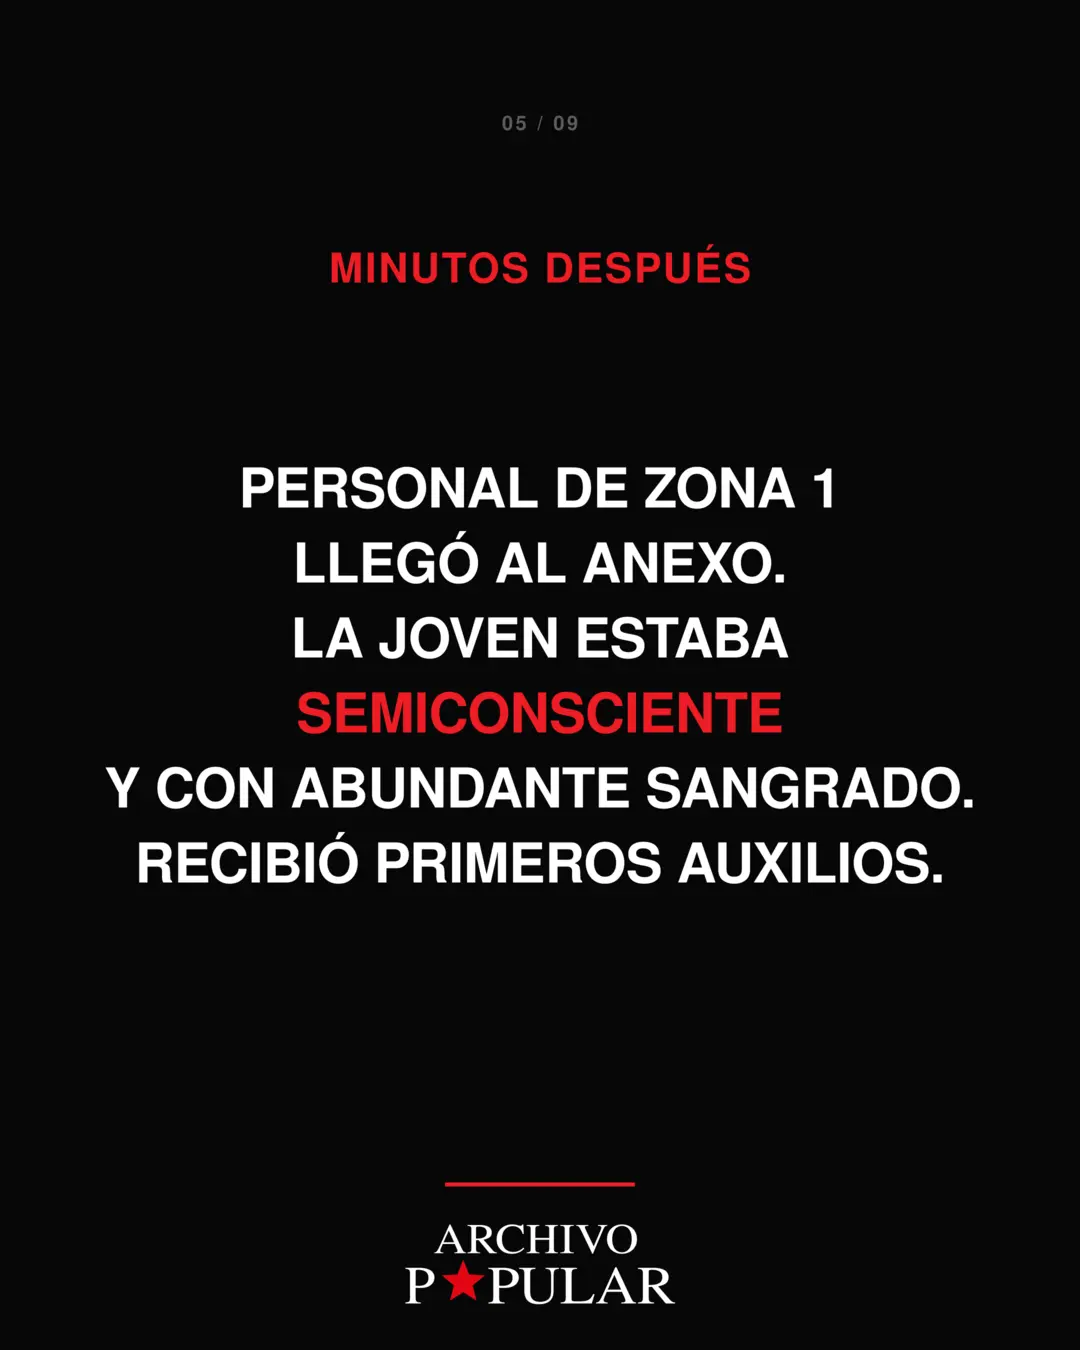
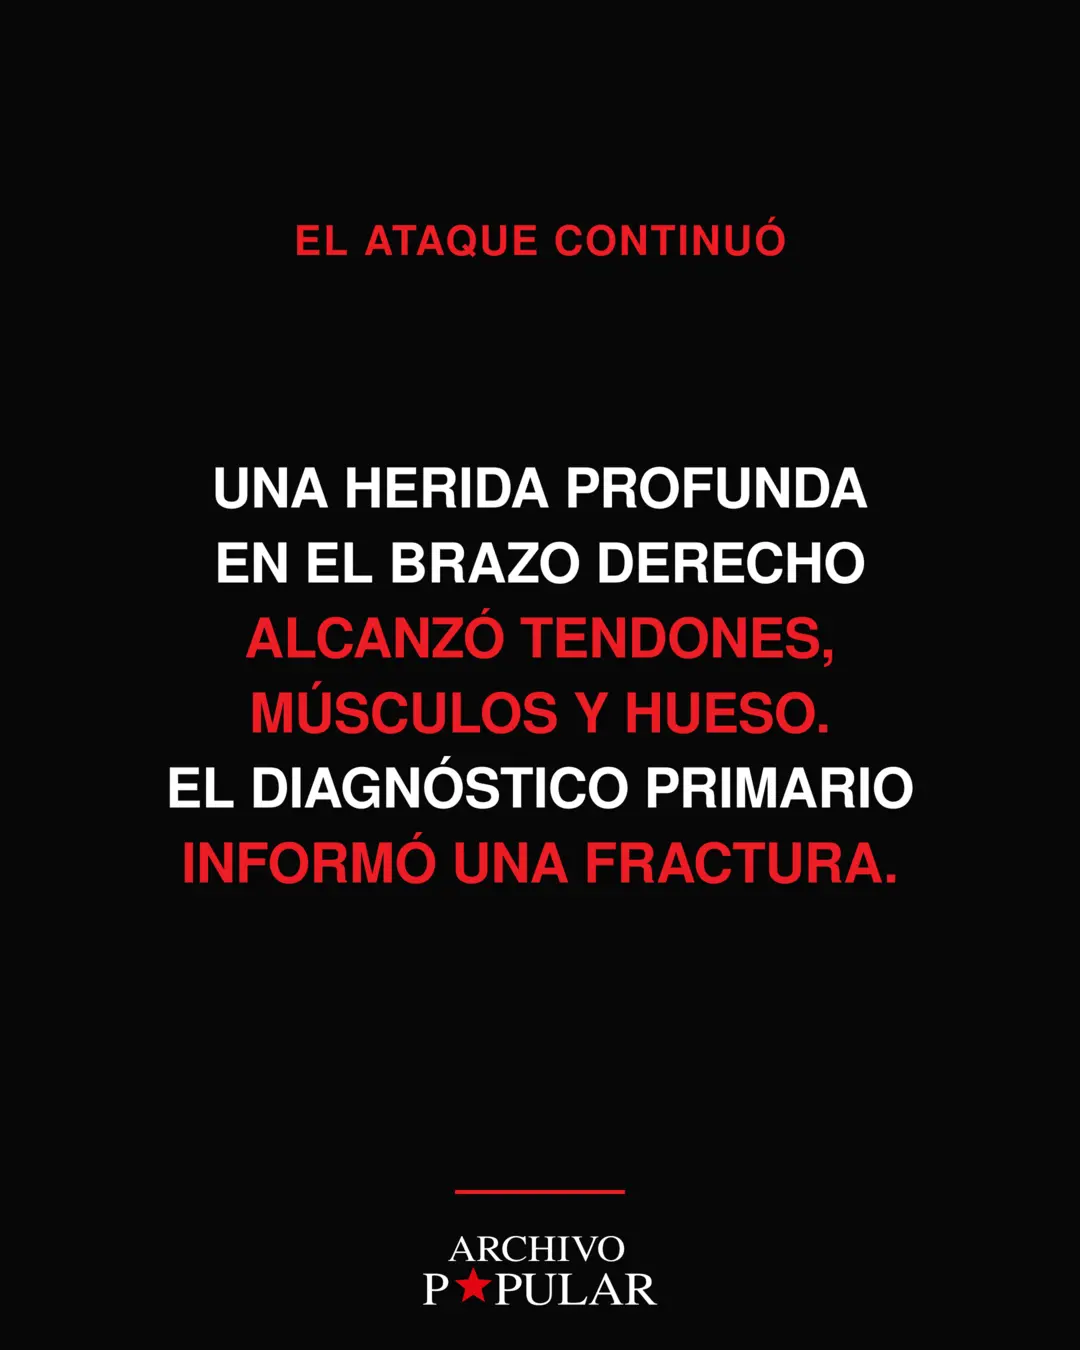
Refuerza cronología de la tentativa de femicidio en Medicina

diff --git a/noticias/minuto-a-minuto-ataque-facultad-medicina-2026.html b/noticias/minuto-a-minuto-ataque-facultad-medicina-2026.html
@@ -4,22 +4,22 @@
   <meta charset="utf-8">
   <meta name="viewport" content="width=device-width, initial-scale=1">
   <meta name="theme-color" content="#090909">
-  <meta name="description" content="La agresión ocurrió sobre las 15:30, al terminar una clase en el salón 306 del anexo. La Policía detuvo a otro estudiante de 19 años y trabaja con la hipótesis de tentativa de femicidio.">
+  <meta name="description" content="Una estudiante sobrevivió a un ataque con cuchillo dentro de la Facultad de Medicina. Reconstruimos los minutos, las lesiones verificadas y la respuesta estudiantil.">
   <meta property="og:type" content="article">
-  <meta property="og:title" content="Los minutos del ataque a una estudiante en la Facultad de Medicina">
-  <meta property="og:description" content="La única hora difundida oficialmente es 15:30. Reconstruimos el resto de la secuencia sin inventar horarios.">
+  <meta property="og:title" content="La quiso matar dentro de Medicina: cronología de una tentativa de femicidio">
+  <meta property="og:description" content="Las lesiones verificadas, el abundante sangrado, la detención y el rechazo estudiantil a volver como si nada hubiera ocurrido.">
   <meta property="og:image" content="https://archivopopular.github.io/assets/features/medicina-minuto-a-minuto-2026-slide-01.webp">
   <meta property="article:published_time" content="2026-09-02T10:15:00-03:00">
   <link rel="canonical" href="https://archivopopular.github.io/noticias/minuto-a-minuto-ataque-facultad-medicina-2026.html">
   <link rel="stylesheet" href="../styles.css?v=20260828-1">
-  <title>Los minutos del ataque en Facultad de Medicina | Archivo Popular</title>
+  <title>La quiso matar dentro de Medicina | Archivo Popular</title>
   <script type="application/ld+json">
   {
     "@context": "https://schema.org",
     "@type": "NewsArticle",
-    "headline": "Los minutos del ataque a una estudiante en la Facultad de Medicina",
+    "headline": "La quiso matar dentro de Medicina: cronología de una tentativa de femicidio",
     "datePublished": "2026-09-02T10:15:00-03:00",
-    "dateModified": "2026-09-02T10:15:00-03:00",
+    "dateModified": "2026-09-02T10:53:40-03:00",
     "inLanguage": "es-UY",
     "image": [
       "https://archivopopular.github.io/assets/features/medicina-minuto-a-minuto-2026-slide-01.webp",
@@ -30,7 +30,10 @@
       "https://archivopopular.github.io/assets/features/medicina-minuto-a-minuto-2026-slide-06.webp",
       "https://archivopopular.github.io/assets/features/medicina-minuto-a-minuto-2026-slide-07.webp",
       "https://archivopopular.github.io/assets/features/medicina-minuto-a-minuto-2026-slide-08.webp",
-      "https://archivopopular.github.io/assets/features/medicina-minuto-a-minuto-2026-slide-09.webp"
+      "https://archivopopular.github.io/assets/features/medicina-minuto-a-minuto-2026-slide-09.webp",
+      "https://archivopopular.github.io/assets/features/medicina-minuto-a-minuto-2026-slide-10.webp",
+      "https://archivopopular.github.io/assets/features/medicina-minuto-a-minuto-2026-slide-11.webp",
+      "https://archivopopular.github.io/assets/features/medicina-minuto-a-minuto-2026-slide-12.webp"
     ],
     "author": {"@type": "Organization", "name": "Archivo Popular"},
     "publisher": {"@type": "Organization", "name": "Archivo Popular", "url": "https://archivopopular.github.io/"},
@@ -56,38 +59,49 @@
       <header class="article-header">
         <p class="eyebrow">Sociedad · Violencia de género</p>
         <p class="story-meta"><span>2 DE SETIEMBRE DE 2026</span><span>Edificio Alpargatas · Montevideo</span><span>Archivo Popular</span></p>
-        <h1>Los minutos del ataque a una estudiante en la Facultad de Medicina</h1>
-        <p class="article-deck">Una estudiante de 19 años fue apuñalada por un compañero de generación al terminar una clase. La Policía detuvo al agresor en el lugar y trabaja con la hipótesis de una tentativa de femicidio.</p>
+        <h1>La quiso matar dentro de Medicina: cronología de una tentativa de femicidio</h1>
+        <p class="article-deck">Una estudiante de 19 años sobrevivió a un ataque con cuchillo dentro de un aula. Las lesiones verificadas muestran la brutalidad del hecho que Policía y Fiscalía investigan como tentativa de femicidio.</p>
       </header>
 
       <figure class="article-figure article-figure--poster">
-        <img src="../assets/features/medicina-minuto-a-minuto-2026-slide-01.webp" alt="Portada del carrusel sobre el ataque a una estudiante en la Facultad de Medicina" width="1080" height="1350">
+        <img src="../assets/features/medicina-minuto-a-minuto-2026-slide-01.webp" alt="Portada del carrusel sobre la tentativa de femicidio en la Facultad de Medicina" width="1080" height="1350">
         <figcaption>Diseño y cronología: Archivo Popular. Carrusel tipográfico sin fotografías.</figcaption>
       </figure>
 
       <div class="article-body">
-        <p><strong>La única hora precisa difundida públicamente es 15:30.</strong> Para no presentar estimaciones como datos, esta reconstrucción ordena los hechos confirmados con referencias relativas —“segundos después”, “minutos después” y “durante la tarde”— cuando no existe un horario oficial.</p>
+        <p><strong>La única hora precisa difundida públicamente es 15:30.</strong> Para no inventar minutos, esta reconstrucción utiliza referencias relativas —“segundos después”, “minutos después” y “durante la tarde”— cuando no existe un horario oficial.</p>
 
-        <p>El ataque ocurrió el martes 1.º de setiembre en el salón 306 del Edificio Alpargatas, anexo de la Facultad de Medicina de la Universidad de la República. Según la información policial difundida por la prensa, una clase acababa de terminar cuando un estudiante de 19 años le pidió hablar a una compañera de la misma edad y la atacó con un arma blanca. El motivo continúa bajo investigación.</p>
+        <p>El ataque ocurrió el martes 1.º de setiembre en el salón 306 del Edificio Alpargatas, anexo de la Facultad de Medicina de la Universidad de la República. Una clase acababa de terminar cuando un estudiante de 19 años le pidió hablar a una compañera de la misma edad. Según la reconstrucción publicada por Montevideo Portal, llevaba guantes negros y un cuchillo de cocina oculto en el abrigo. Durante la conversación sacó el arma y comenzó a atacarla.</p>
 
-        <p>Varios llamados alertaron al 911 y estudiantes que presenciaron la agresión intervinieron para separarlos. Personal de la Zona Operacional I llegó al edificio, encontró a la joven herida y le brindó los primeros auxilios antes de su traslado en ambulancia.</p>
+        <p><strong>Las heridas muestran la brutalidad de la agresión.</strong> El diagnóstico primario citado por Subrayado informó diversas heridas cortantes, fractura de un brazo y lesiones profundas en un ojo. Telemundo precisó que sufrió heridas en el abdomen y un corte facial que comprometió ese ojo.</p>
 
-        <p>El presunto agresor fue detenido en el lugar y la Policía incautó el arma. Policía Científica trabajó en el salón mientras el anexo era evacuado.</p>
+        <p>El parte médico al que accedió Montevideo Portal detalló dos cortes profundos en el pómulo izquierdo, una herida profunda en el brazo derecho que alcanzó tendones, músculos y hueso, múltiples cortes en el cuello y uno a la altura cervical. Ninguna fuente consultada confirmó una rotura de córnea.</p>
 
-        <p>La Facultad suspendió las actividades del resto de la jornada tanto en el Edificio Alpargatas como en el Edificio Central. Más tarde, el decano Arturo Briva informó que la estudiante se encontraba estable y fuera de peligro, aunque continuaba recibiendo atención médica por las heridas.</p>
+        <p>La Jefatura de Policía de Montevideo informó que los efectivos encontraron a la joven con heridas de arma blanca y abundante sangrado. Estudiantes intervinieron y llamaron al 911. Personal de la Zona Operacional I le brindó los primeros auxilios antes de que una emergencia médica la trasladara a un centro asistencial.</p>
 
-        <p>La Policía informó que trabaja con la hipótesis de una tentativa de femicidio y que la investigación quedó a cargo de la Fiscalía de Violencia Doméstica. Esa es una línea de investigación, no una sentencia ni una calificación jurídica definitiva.</p>
+        <p>El agresor fue detenido en el lugar y el cuchillo quedó incautado. Policía Científica trabajó en el aula mientras el anexo era evacuado. La Facultad suspendió las actividades por el resto de la jornada.</p>
 
-        <p><strong>Criterio editorial.</strong> Archivo Popular preserva la identidad de la víctima y omite versiones no confirmadas sobre la salud del detenido. Informar con rigor también implica no convertir rumores ni datos médicos privados en espectáculo.</p>
+        <p>Más tarde, el decano Arturo Briva informó que la estudiante estaba fuera de peligro y continuaba recibiendo atención por las heridas y el shock emocional. <strong>Estar fuera de peligro no significa haber salido ilesa ni reduce la gravedad del ataque.</strong></p>
+
+        <p>La Policía y Fiscalía investigan el caso como tentativa de femicidio. No fue una simple “pelea entre estudiantes”: fue un ataque contra una joven que, de acuerdo con los elementos divulgados, había rechazado conductas persecutorias y obsesivas de su agresor.</p>
+
+        <p>Las autoridades universitarias anunciaron que las clases se retomarían el miércoles y el decano confirmó el regreso. <strong>Para Archivo Popular, pretender volver a la normalidad en menos de 24 horas fue una decisión vergonzosa.</strong> La respuesta llegó desde el estudiantado: 558 de 739 participantes de una asamblea votaron un paro de 24 horas y la Asociación de Estudiantes de Medicina convocó a movilizarse.</p>
+
+        <p>La AEM llamó a no regresar “como si no hubiese pasado nada” y sostuvo que la institución falló en proteger a una compañera. También reclamó una respuesta universitaria capaz de prevenir, acompañar y actuar antes de que el daño ocurra.</p>
+
+        <p><strong>Criterio editorial.</strong> Archivo Popular preserva la identidad de la víctima, no publica imágenes de su cuerpo y solo incorpora lesiones atribuidas al diagnóstico primario o al parte médico por fuentes identificables. La firmeza no necesita rumores.</p>
       </div>
 
       <aside class="article-aside" aria-labelledby="fuentes">
         <h2 id="fuentes">Fuentes consultadas</h2>
         <ul class="source-list">
-          <li><a href="https://www.elpais.com.uy/informacion/policiales/investigan-como-intento-de-femicidio-ataque-a-estudiante-de-medicina-senalan-conducta-obsesiva-de-agresor" rel="noopener" target="_blank">El País · Investigación, estado de la víctima y suspensión de actividades</a></li>
-          <li><a href="https://www.telenoche.com.uy/sociedad/una-joven-19-anos-fue-apunalada-el-anexo-la-facultad-medicina-el-autor-fue-detenido-n5404125" rel="noopener" target="_blank">Telenoche · Llamados al 911, respuesta policial y detención</a></li>
-          <li><a href="https://ladiaria.com.uy/justicia/articulo/2026/9/fiscalia-investiga-como-tentativa-de-femicidio-ataque-de-un-estudiante-a-una-companera-en-la-facultad-de-medicina/" rel="noopener" target="_blank">la diaria · Intervención de Fiscalía y línea de investigación</a></li>
-          <li><a href="https://www.montevideo.com.uy/Noticias/Apunalaron-a-una-joven-en-la-Facultad-de-Medicina-el-agresor-fue-detenido-uc973809" rel="noopener" target="_blank">Montevideo Portal · Primer reporte del ataque</a></li>
+          <li><a href="https://www.subrayado.com.uy/un-alumno-facultad-medicina-apunalo-una-companera-clase-la-victima-tiene-19-anos-n1016886" rel="noopener" target="_blank">Subrayado · Diagnóstico primario: heridas, fractura y lesión ocular</a></li>
+          <li><a href="https://www.teledoce.com/telemundo/nacionales/facultad-de-medicina-suspendio-clases-tras-punalada-a-estudiante-en-el-edificio-gremio-estudiantil-define-en-asamblea-los-pasos-a-seguir/" rel="noopener" target="_blank">Telemundo · Heridas abdominales, fractura y ojo comprometido</a></li>
+          <li><a href="https://www.montevideo.com.uy/Noticias/Quien-es-el-joven-que-le-destruyo-la-cara-a-una-alumna-en-la-Facultad-de-Medicina-uc973821" rel="noopener" target="_blank">Montevideo Portal · Detalle del parte médico y secuencia del ataque</a></li>
+          <li><a href="https://ladiaria.com.uy/justicia/articulo/2026/9/fiscalia-investiga-como-tentativa-de-femicidio-ataque-de-un-estudiante-a-una-companera-en-la-facultad-de-medicina/" rel="noopener" target="_blank">la diaria · Investigación como tentativa de femicidio</a></li>
+          <li><a href="https://www.subrayado.com.uy/decano-medicina-joven-apunalada-esta-una-mezcla-conmocion-el-shock-emocional-n1016907" rel="noopener" target="_blank">Subrayado · Estado de la estudiante y reanudación de clases</a></li>
+          <li><a href="https://www.teledoce.com/telemundo/nacionales/a-no-ser-indiferentes-estudiantes-de-medicina-paran-este-miercoles-tras-intento-de-femicidio-contra-una-alumna/" rel="noopener" target="_blank">Telemundo · Paro y movilización estudiantil</a></li>
+          <li><a href="https://www.elobservador.com.uy/nacional/estudiantes-medicina-paran-24-horas-el-intento-femicidio-la-facultad-habra-una-movilizacion-n6055977" rel="noopener" target="_blank">El Observador · Votación de la asamblea y respuesta de la Udelar</a></li>
         </ul>
       </aside>
 
@@ -103,38 +117,53 @@
         </figure>
 
         <figure>
-          <img src="../assets/features/medicina-minuto-a-minuto-2026-slide-03.webp" alt="A las 15:30 un estudiante atacó con un arma blanca a una compañera" width="1080" height="1350" loading="lazy">
-          <figcaption>15:30 · El ataque.</figcaption>
+          <img src="../assets/features/medicina-minuto-a-minuto-2026-slide-03.webp" alt="El agresor llevaba guantes y un cuchillo oculto en el abrigo" width="1080" height="1350" loading="lazy">
+          <figcaption>15:30 · Sacó el cuchillo.</figcaption>
         </figure>
 
         <figure>
-          <img src="../assets/features/medicina-minuto-a-minuto-2026-slide-04.webp" alt="Segundos después hubo llamados al 911 y estudiantes intervinieron" width="1080" height="1350" loading="lazy">
-          <figcaption>Segundos después · Los llamados y la intervención.</figcaption>
+          <img src="../assets/features/medicina-minuto-a-minuto-2026-slide-04.webp" alt="La estudiante sufrió dos cortes profundos en el pómulo y una lesión que comprometió un ojo" width="1080" height="1350" loading="lazy">
+          <figcaption>Segundos de violencia · Las heridas en el rostro y el ojo.</figcaption>
         </figure>
 
         <figure>
-          <img src="../assets/features/medicina-minuto-a-minuto-2026-slide-05.webp" alt="Minutos después llegó la Policía y brindó primeros auxilios" width="1080" height="1350" loading="lazy">
-          <figcaption>Minutos después · La respuesta policial.</figcaption>
+          <img src="../assets/features/medicina-minuto-a-minuto-2026-slide-05.webp" alt="Una herida profunda en el brazo alcanzó tendones, músculos y hueso" width="1080" height="1350" loading="lazy">
+          <figcaption>El ataque continuó · La herida y fractura del brazo.</figcaption>
         </figure>
 
         <figure>
-          <img src="../assets/features/medicina-minuto-a-minuto-2026-slide-06.webp" alt="La joven fue trasladada y el presunto agresor quedó detenido" width="1080" height="1350" loading="lazy">
-          <figcaption>Minutos después · El traslado y la detención.</figcaption>
+          <img src="../assets/features/medicina-minuto-a-minuto-2026-slide-06.webp" alt="La estudiante también sufrió heridas en el abdomen y múltiples cortes en el cuello" width="1080" height="1350" loading="lazy">
+          <figcaption>El ataque continuó · Heridas en abdomen, cuello y cervical.</figcaption>
         </figure>
 
         <figure>
-          <img src="../assets/features/medicina-minuto-a-minuto-2026-slide-07.webp" alt="Policía Científica trabajó en el lugar y la Facultad suspendió las clases" width="1080" height="1350" loading="lazy">
-          <figcaption>Durante la tarde · Pericias, evacuación y suspensión de clases.</figcaption>
+          <img src="../assets/features/medicina-minuto-a-minuto-2026-slide-07.webp" alt="La Policía encontró a la joven herida con abundante sangrado" width="1080" height="1350" loading="lazy">
+          <figcaption>Segundos después · Intervención estudiantil y llamados al 911.</figcaption>
         </figure>
 
         <figure>
-          <img src="../assets/features/medicina-minuto-a-minuto-2026-slide-08.webp" alt="El decano confirmó que la joven estaba estable y fuera de peligro" width="1080" height="1350" loading="lazy">
-          <figcaption>Al caer la tarde · La víctima estaba fuera de peligro.</figcaption>
+          <img src="../assets/features/medicina-minuto-a-minuto-2026-slide-08.webp" alt="La joven recibió primeros auxilios y el agresor fue detenido" width="1080" height="1350" loading="lazy">
+          <figcaption>Minutos después · Primeros auxilios, traslado y detención.</figcaption>
         </figure>
 
         <figure>
-          <img src="../assets/features/medicina-minuto-a-minuto-2026-slide-09.webp" alt="La Policía investiga el ataque como una posible tentativa de femicidio" width="1080" height="1350" loading="lazy">
-          <figcaption>Al cierre del día · Investigación por tentativa de femicidio.</figcaption>
+          <img src="../assets/features/medicina-minuto-a-minuto-2026-slide-09.webp" alt="Policía Científica trabajó en el aula y la Facultad suspendió las clases" width="1080" height="1350" loading="lazy">
+          <figcaption>Durante la tarde · Pericias, evacuación y suspensión.</figcaption>
+        </figure>
+
+        <figure>
+          <img src="../assets/features/medicina-minuto-a-minuto-2026-slide-10.webp" alt="Estar fuera de peligro no significa haber salido ilesa" width="1080" height="1350" loading="lazy">
+          <figcaption>Al caer la tarde · Heridas y shock emocional.</figcaption>
+        </figure>
+
+        <figure>
+          <img src="../assets/features/medicina-minuto-a-minuto-2026-slide-11.webp" alt="Policía y Fiscalía investigan una tentativa de femicidio" width="1080" height="1350" loading="lazy">
+          <figcaption>Al cierre del día · Tentativa de femicidio.</figcaption>
+        </figure>
+
+        <figure>
+          <img src="../assets/features/medicina-minuto-a-minuto-2026-slide-12.webp" alt="El estudiantado respondió a la vuelta a clases con paro y movilización" width="1080" height="1350" loading="lazy">
+          <figcaption>A la mañana siguiente · Vuelta a clases, paro y movilización.</figcaption>
         </figure>
       </section>
     </article>
